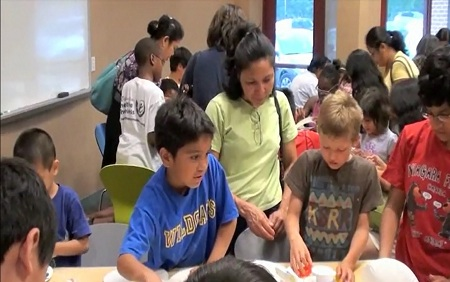
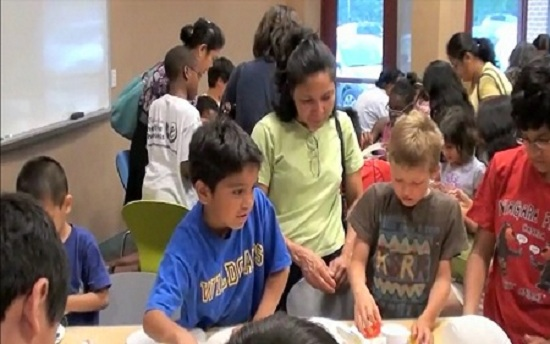
Updated Changes - 2

diff --git a/home.html b/home.html
@@ -9,7 +9,7 @@
         div.rotator
         {
             position: relative;
-            height: 300px;
+            height: 350px;
             display: none;
         }
         /* rotator css */
@@ -103,15 +103,15 @@
                 <div class="rotator">
                     <ul style="margin:0px">
                         <li class="show"><a href="#link1">
-                            <img src="images/image-1.jpg" width="450" height="282" alt="pic1" /></a></li>
+                            <img src="images/image-1.jpg" width="550" height="334" alt="pic1" /></a></li>
                         <li><a href="#link2">
-                            <img src="images/image-2.jpg" width="450" height="282" alt="pic2" /></a></li>
+                            <img src="images/image-2.jpg" width="550" height="334" alt="pic2" /></a></li>
                         <li><a href="#link3">
-                            <img src="images/image-3.jpg" width="450" height="282" alt="pic3" /></a></li>
+                            <img src="images/image-3.jpg" width="550" height="334" alt="pic3" /></a></li>
                         <li><a href="#link4">
-                            <img src="images/image-4.jpg" width="450" height="282" alt="pic4" /></a></li>
+                            <img src="images/image-4.jpg" width="550" height="334" alt="pic4" /></a></li>
                         <li><a href="#link5">
-                            <img src="images/image-5.jpg" width="450" height="282" alt="pic5" /></a></li>
+                            <img src="images/image-5.jpg" width="550" height="334" alt="pic5" /></a></li>
                     </ul>
                 </div>
                 <p>
